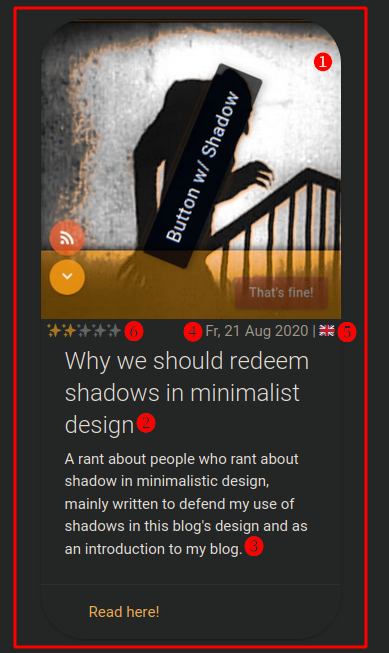
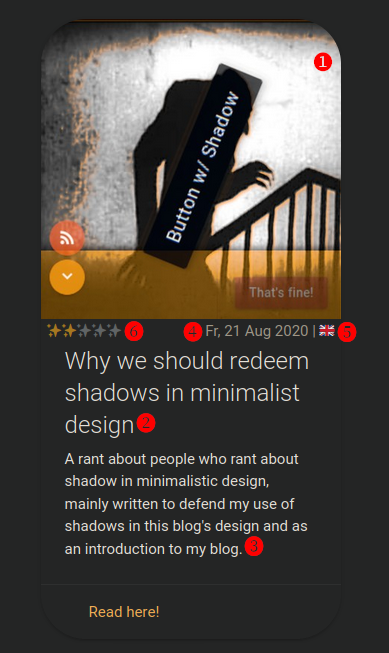
Remove red lines around essay card screenshot; add some more walls of text to the README.

Changed region(s): [[0.0308, 0.0, 0.9563, 1.0]]

diff --git a/README.md b/README.md
@@ -119,7 +119,7 @@ It worth noting for all of these topics that my website is a static website, so 
     
     <table><tr><td>
     
-    If I add, for example, an entry like the following (
+    If I add, for example, an entry like the following to `feed-original.rss` (
     
     ```xml
      <item>
@@ -156,7 +156,7 @@ It worth noting for all of these topics that my website is a static website, so 
   
     </tr><tr></tr><tr><td>
   
-    Adding something to the RSS feed also creates a post in [my personal Mastodon instance](https://toot.phseiff.com/), which looks like the post displayed on the bottom right.
+    Adding something to the RSS feed also creates a post in [my personal Mastodon instance](https://toot.phseiff.com/), as can be seen on the right.
   
     </td><td>
      
@@ -166,7 +166,7 @@ It worth noting for all of these topics that my website is a static website, so 
   
     I can also add a `project="true"` attribute to any item, in which case the resulting card is added to the project list in my website rather than the essay list, receives a (regularly updated) star count if it links to a GitHub repository rather than language information and a sparkle count, and gets its image build from the repository's preview image, with a fancy orange overlay.
   
-    The code for this looks, examplary, pretty much like this:
+    The code for this looks, examplary, pretty much like this (
   
     ```xml
      <item project="true">
@@ -177,18 +177,34 @@ It worth noting for all of these topics that my website is a static website, so 
        <pubDate>❹ ~July 2020</pubDate>
      </item>
      ```
-    , where:
+    ), where:
     * <span class="reminder-red">❶</span> the image is build from the repository preview image of the repository the card links to;
       the rule being that the contents of `https://phseiff.com/phseiff-essays/gh-images/foo.jpeg` are a compressed JPEG of `github.com/phseiff/foo`'s preview image with an added orange overlay to fit int my website's color scheme.
     * pretty much everything else is like in every other essay card.
   
     </td><td>
   
-    <img alt="An image of a project card on my website" style="max-height: 260px;" src="https://raw.githubusercontent.com/phseiff/phseiff.github.io/master/images/writeup-illustration-project-card-noborder.png">
+    <img alt="An image of a project card on my website" src="https://raw.githubusercontent.com/phseiff/phseiff.github.io/master/images/writeup-illustration-project-card-noborder.png">
   
     </td></tr></table>
     
   * **Converting markdown-files to html:**
+  
+    I also wrote a custom markdown-to-html conversion tool for my website, because I wanted to have GitHub README styled subpages whilst still having formula support, which later grow from a tool to inject umlauts into multiline code blocks in GitHub's online markdown API (which GitHub doesn't natively support due to an unfortunate chain of technical limitations) to a tool into which pretty much every markdown converter can be plugged, and which results in GitHub-styled html- and pdf files with some added tweaks and sparkles.
+    This quickly became my so-far biggest tool (🥲), and you can visit it [on GitHub](https://github.com/phseiff/github-flavored-markdown-to-html) if you wanna leave some stardust or, like, actually use it.
+    
+     Anyways, what I want to talk about here is how it integrates with my building pipeline.
+    
+     Essentially, every markdown file in my content-repository is thrown into the converter and a html file is generated for each one.
+     All of these have host-ready relative links to all images they reference (a feature of `gh-md-to-html`), and all of them share a single css file.
+     In addition, every image any markdown file references is automatically downloaded, stored in a separate folder, converted to progressive JPEG if it isn't one already, receives a mono-colored background, and some compression with some losses.
+     The image is then stored in 10 different resolutions, and all of them are put into the image's `srcset` attribute, ensuring that the browser loads the minimal resolution that is needed for the given screen size.
+    
+     This allows me to just reference whatever image I use, as a PNG with 3000x2000px, or even images that some ominous source hosts on the web with integrated visitor tracking, without needing to worry about saving the file, compressing it, making different resolutions from that, or having a slow and unsave webpage as an alternative.
+  
+     I think this is a pretty neat feature to have in a markdown converter (I'm not aware of any others with `srcset` support), and it makes sure that all these images stay within reasonable bandwidth boundaries.
+  
+     The html pages are then added to a list, which my website builder in my public repo then reads (its pipelines are triggered every time the pipelines of my private repo finish running), to then proceed to embed every single file into my one-page website as a subpage.
 
 * **Auto-generating darkmode with a headless browser**:
 
@@ -196,7 +212,22 @@ It worth noting for all of these topics that my website is a static website, so 
 
   * 404 Error page:
     
-  * SEO optimization & image compression
+  * SEO optimization:
+    
+  * image compression of images outside the subpages:
+  
+  * fancy image zooming:
+  
+  * ethical tracking:
+  
+* **The backside & domain price bragging:**
+
+  The whole ting is, of course, not always as smooth as I depict it here.
+  Almost every time I write an essay for this website, something turns out not to work like I intended it to work, and every time, I end up tweaking something just to fit that little essay.
+  There are also lots of dirty other things, like generally chaos when it comes to ordering everything into different files, and using whacky push pipelines that automate `git add`, `git commit` and `git push` alongside other things that should be done by GitHub actions, probably (in my defense, at least it's all properly documented, named and throughoutly commented).
+  It's also not the prettiest thing imaginable that I end up putting things like intro texts straight into my website's main template, but hey, that's how it is.
+  
+  On a more positive note, my domain name is quite easy to remember, grippy and handy, and costs me only $18 per year :)
 
 ### wrapping it up
 
